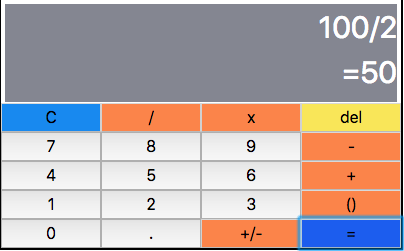
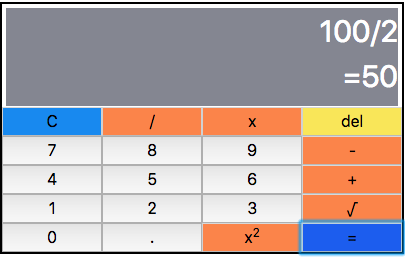
reddisin ui

diff --git a/src/component/Calculus.js b/src/component/Calculus.js
@@ -1,6 +1,17 @@
-const maxAllowDigit = 15;
+const maxAllowDigit = 12;
 const regExp = /([0-9]+([.][0-9]*)?|[.][0-9]+)/g;
 const Calculus = (obj, name) => {
+  //if request for square of number
+  if (typeof name === 'object') {
+    name = 'square'
+  }
+
+  //if no operation expression  exist and user try to get square ,square root and try to evaluate
+  if (!obj.operation && name == ('square' || '=' || '√')) {
+    return;
+  }
+
+  // request for delete expression
   if (name == "del") {
     if (isTotalDone(obj.operation)) {
       return {
@@ -17,18 +28,21 @@ const Calculus = (obj, name) => {
     }
   }
 
+  // if multiply request convert into * to evaluate the expression
   if (name == "x") {
     name = "*";
   }
 
+  // if there is call of reset
   if (name == 'C') {
     return {
       operation: null
     };
   }
 
-  if (obj.operation && obj.operation.length > maxAllowDigit) {
-    return
+
+  if (obj.operation && name !== ('square' || '=' || '√') && obj.operation.length > maxAllowDigit) {
+    return;
   }
 
 
@@ -44,19 +58,28 @@ const Calculus = (obj, name) => {
 
 
 
-  if (obj.operation && name == "=") {
-    if (isTotalDone(obj.operation)) {
+  if (obj.operation) {
+    if (name === '=') {
+      if (isTotalDone(obj.operation)) {
+        return {
+          operation: null
+        }
+      }
       return {
-        operation: null
+        operation: (obj.operation + name + operation(obj.operation)).split('=').join('<br/>=')
       }
     }
-    return {
-      operation: (obj.operation + name + operation(obj.operation)).split('=').join('<br/>=')
+    if (name == 'square') {
+      return {
+        operation: (obj.operation + name + exponetialOperation(obj.operation)).split('square').join('<br/>=')
+      }
     }
-  }
 
-  if (name == "()" || name == "+/-") {
-    return;
+    if (name == '√') {
+      return {
+        operation: (obj.operation + name + exponetialOperation(obj.operation, 0.5)).split('√').join('<br/>=')
+      }
+    }
   }
 
   if (name == ".") {
@@ -113,5 +136,18 @@ const dotOperation = oprationString => {
     return;
   }
   return !eval(oprationString[oprationString.length - 1]);
+}
+
+const exponetialOperation = (oprstr, pow = 2) => {
+  try {
+    let _result = eval(oprstr) ** pow;
+    console.log(_result)
+    if (/\./.test(_result)) {
+      _result = Number(_result.toFixed(maxAllowDigit));
+    }
+    return _result;
+  } catch (error) {
+    return "Error";
+  }
 }
 export default Calculus;

diff --git a/src/component/PanelBoard.jsx b/src/component/PanelBoard.jsx
@@ -1,13 +1,23 @@
 import React from 'react';
 import PropTypes from "prop-types";
 import Button from "./Button.jsx";
+
+function superScript(str, script) {
+  return (
+    <span>
+      {str}<sup>{script}</sup>
+    </span>
+  )
+}
+
+
 var calculator = [{
   "value": [
     ["C", "/", "x", "del"],
     ["7", "8", "9", "-"],
     ["4", "5", "6", "+"],
-    ["1", "2", "3", "()"],
-    ["0", ".", "+/-", "="]
+    ["1", "2", "3", "√"],
+    ["0", ".", superScript('x', 2), "="]
   ],
   "color": [
     ["#4286f4", "#f48641", "#f48641", "#f4e841"],
